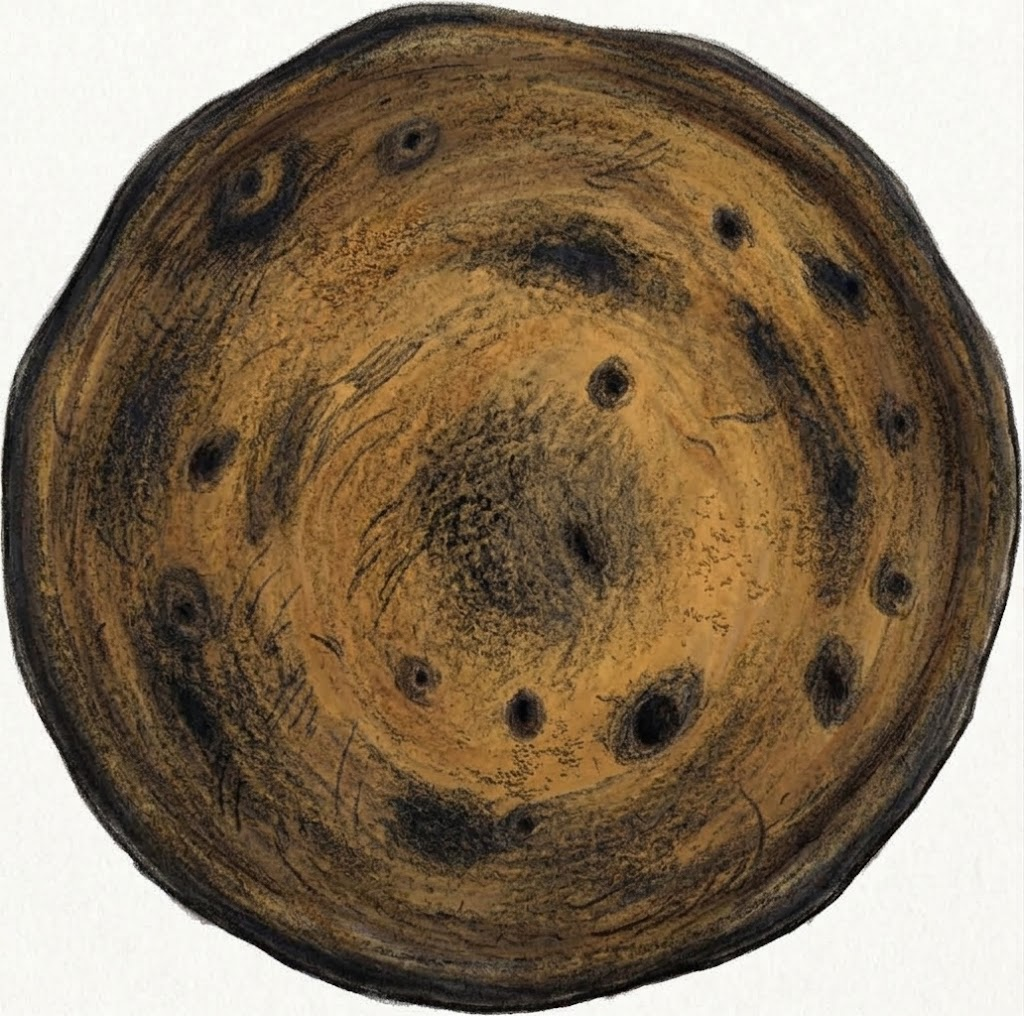
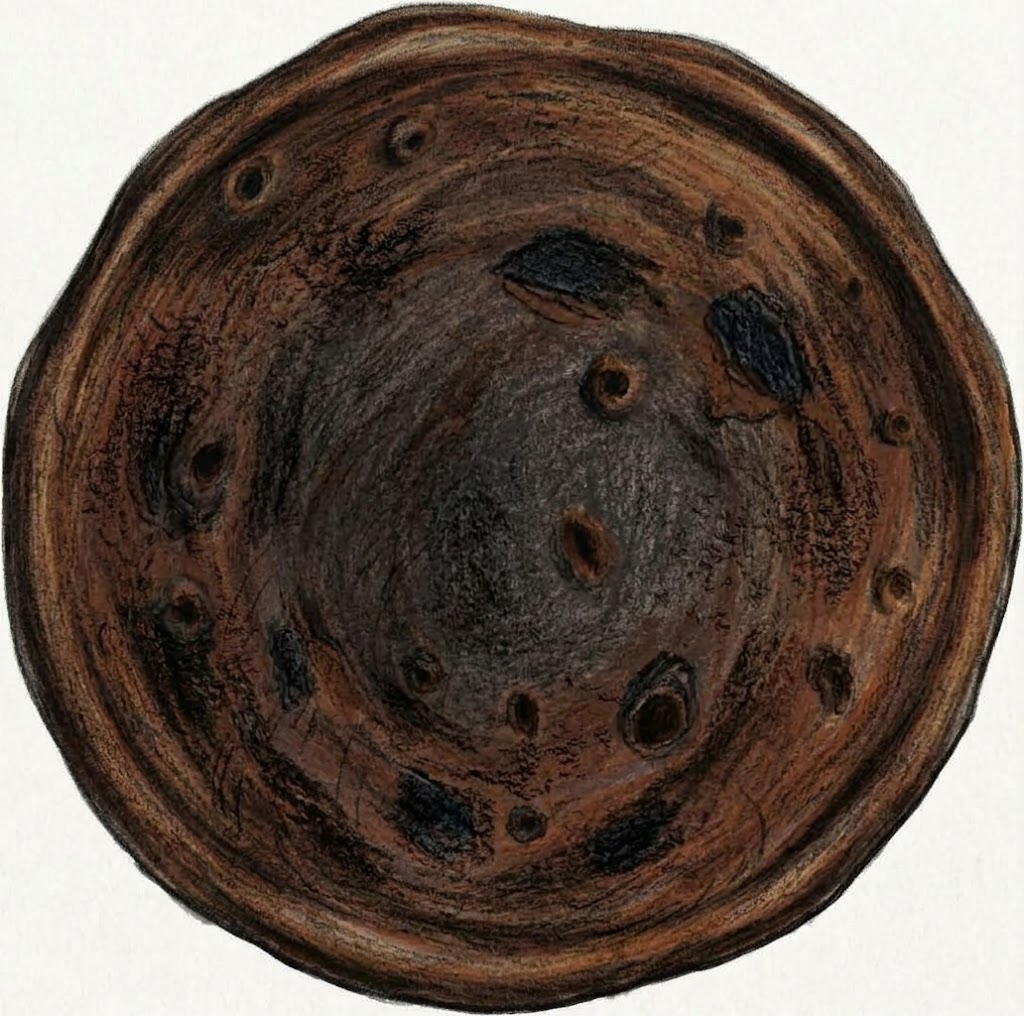
feat: redraw sauce/cheese and pepperoni/basil bins and burnt dough
Cut bins 1 and 2 from their own empty and full drawings, scaled onto the old bins' spots, with the full drawing aligned to the empty one by the bin outline and each fill found where the food differs from the empty bin (gaps between loose bits closed so a pile stays whole); swap sausage for basil, replace the burnt dough drawing, and pick up the new peel drawing.

diff --git a/src/config.ts b/src/config.ts
@@ -18,7 +18,7 @@ export const COLORS = {
 
 export const OUTLINE_WIDTH = 6;
 
-export const INGREDIENT_IDS = ['sauce', 'cheese', 'pepperoni', 'sausage', 'pineapple', 'olives'] as const;
+export const INGREDIENT_IDS = ['sauce', 'cheese', 'pepperoni', 'basil', 'pineapple', 'olives'] as const;
 export type IngredientId = (typeof INGREDIENT_IDS)[number];
 
 // Everything unlocked until the meta game exists
@@ -27,7 +27,7 @@ export const STARTING_UNLOCKED: readonly IngredientId[] = INGREDIENT_IDS;
 // Containers along the top, by art name. Locked compartments show empty.
 export const BINS = [
   { art: 'bin1', label: 'label_bin1', items: ['sauce', 'cheese'] },
-  { art: 'bin2', label: 'label_bin2', items: ['pepperoni', 'sausage'] },
+  { art: 'bin2', label: 'label_bin2', items: ['pepperoni', 'basil'] },
   { art: 'bin3', label: 'label_bin3', items: ['pineapple', 'olives'] },
 ] as const;
 

diff --git a/tools/art/extract.py b/tools/art/extract.py
@@ -31,6 +31,10 @@ FIT_DOWNSAMPLE = 4
 FIT_SCALES = np.arange(0.6, 1.4, 0.005)
 FILL_FEATHER = 1.5  # compartment mask blur, px
 FILL_CUTOFF = 0.01
+# Separately drawn bins: food is where the full drawing differs from the empty one, cleaned up in px
+FOOD_DIFF = 45
+FOOD_OPEN = 3
+FOOD_CLOSE = 14  # bridges gaps between loose bits (cheese shreds) so the whole pile is one area
 LETTER_MIN = 60  # ink blobs smaller than this aren't letters, px
 LETTER_GROW = 2  # soft margin kept around letter strokes, px
 LABEL_CLEARANCE = 6  # keep labels this far from bin pixels, px
@@ -48,9 +52,13 @@ DOUGH_BAKE_PAD = 16  # paper added around the drawing so dough touching the canv
 DOUGH_SMOOTH = 5  # trims pencil-shadow scraps off the silhouette, px
 DOUGH_EDGE_SAMPLES = 180
 DOUGH_RAY_STEP = 0.25
+# Bins with 'drawn' (empty, full) come from their own drawings, scaled onto the sheet bin's spot; their label box is in
+# the empty drawing's px
 BINS = [
-    {'name': 'bin1', 'box': (204, 114, 792, 444), 'label': (288, 430, 726, 534), 'fills': ('sauce', 'cheese')},
-    {'name': 'bin2', 'box': (930, 132, 1482, 456), 'label': (906, 418, 1506, 528), 'fills': ('pepperoni', 'sausage')},
+    {'name': 'bin1', 'box': (204, 114, 792, 444), 'label': (0, 570, 1024, 803), 'fills': ('sauce', 'cheese'),
+     'drawn': ('pizza_bin1_empty.png', 'pizza_bin1_full.png')},
+    {'name': 'bin2', 'box': (930, 132, 1482, 456), 'label': (0, 560, 1024, 817), 'fills': ('pepperoni', 'basil'),
+     'drawn': ('pizza_bin2_empty.png', 'pizza_bin2_full.png')},
     {'name': 'bin3', 'box': (1590, 144, 2160, 492), 'label': (1560, 448, 2140, 570), 'fills': ('pineapple', 'olives')},
 ]
 # Where to look for the separately drawn pieces in the layout
@@ -197,6 +205,28 @@ def compartments(mask, ink):
     divider = mid.start + int(np.argmax((inner & ink)[:, mid].sum(0)))
     cols = np.arange(inner.shape[1])[None, :]
     return inner & (cols < divider), inner & (cols >= divider)
+
+
+def align_to(img, mask, shape):
+    """img resampled into another drawing's frame (shape), matching its main outline's box to mask's."""
+    l, t, r, _ = bbox(mask)
+    il, it, ir, _ = bbox(largest(foreground(img, estimate_paper(img), use_chroma=False)))
+    k = (r - l) / (ir - il)
+    inverse = (1 / k, 0, il - l / k, 0, 1 / k, it - t / k)
+    src = Image.fromarray(img.astype(np.uint8))
+    return np.asarray(src.transform((shape[1], shape[0]), Image.AFFINE, inverse, Image.BICUBIC, fillcolor=(255, 255, 255))).astype(np.float32)
+
+
+def food_regions(full, empty, mask):
+    """Left and right food areas: where the full drawing differs from the empty one, split at the divider."""
+    food = ndimage.binary_opening((np.abs(full - empty).max(2) > FOOD_DIFF) & mask, iterations=FOOD_OPEN)
+    xs = np.nonzero(mask.any(0))[0]
+    third = (xs.max() - xs.min()) // 3
+    mid = slice(xs.min() + third, xs.max() - third)
+    divider = mid.start + int(np.argmax((mask & (lum(empty) < INK_LUM))[:, mid].sum(0)))
+    cols = np.arange(mask.shape[1])[None, :]
+    return [ndimage.binary_fill_holes(largest(ndimage.binary_closing(food & side, iterations=FOOD_CLOSE)))
+            for side in (cols < divider, cols >= divider)]
 
 
 def lettering(img, paper, box, exclude=None):
@@ -414,6 +444,29 @@ def toppings():
     return names
 
 
+def drawn_bin(spec, sheet_mask, place, f):
+    """A bin drawn on its own sheets, scaled onto where the sheet's bin sat; fills come from the full drawing aligned to it."""
+    empty_src, full_src = spec['drawn']
+    empty = load(empty_src)
+    paper = estimate_paper(empty)
+    mask = largest(foreground(empty, paper, use_chroma=False))
+    l, t, r, _ = bbox(mask)
+    sl, st, sr, _ = bbox(sheet_mask)
+    s = (sr - sl) / (r - l)
+    origin = (sl - l * s, st - t * s)
+    put = lambda name, pixels: place(name, pixels, f * s, origin=origin, src_to_layout=s)
+    put(spec['name'], cutout(empty, paper, mask))
+
+    full = align_to(load(full_src), mask, empty.shape)
+    full_paper = estimate_paper(full)
+    for fill_name, region in zip(spec['fills'], food_regions(full, empty, mask)):
+        soft = ndimage.gaussian_filter(region.astype(np.float32), FILL_FEATHER)
+        put(f'fill_{fill_name}', rgba(full, full_paper, soft * (soft > FILL_CUTOFF)))
+
+    near_bin = ndimage.binary_dilation(mask, iterations=LABEL_CLEARANCE)
+    put(f'label_{spec["name"]}', rgba(empty, paper, lettering(empty, paper, spec['label'], near_bin)))
+
+
 def fit(mask, target, region):
     """Scale and offset placing mask best over target inside region (target px)."""
     d = FIT_DOWNSAMPLE
@@ -495,6 +548,9 @@ def main():
     ink = lum(empty) < INK_LUM
     for spec in BINS:
         mask = largest(in_box(empty_fg, spec['box']))
+        if 'drawn' in spec:
+            drawn_bin(spec, mask, place, f)
+            continue
         place(spec['name'], cutout(empty, plate, mask), f)
 
         for fill_name, region in zip(spec['fills'], compartments(mask, ink)):
@@ -507,7 +563,7 @@ def main():
     # Peel and dragon were drawn apart; fit each onto the layout
     target = np.abs(layout - plate).max(2) > LAYOUT_DIFF
     for name, source, region, same_paper, use_chroma in (
-        ('peel', 'pizza_peel.jpeg', PEEL_REGION, False, True),
+        ('peel', 'pizza_peel.png', PEEL_REGION, False, True),
         ('dragon', 'pizza_dragon.jpeg', DRAGON_REGION, True, False),
     ):
         img = load(source)
